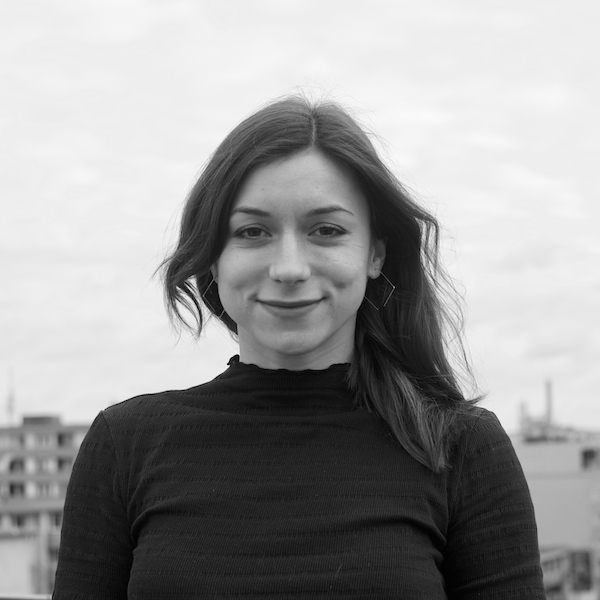
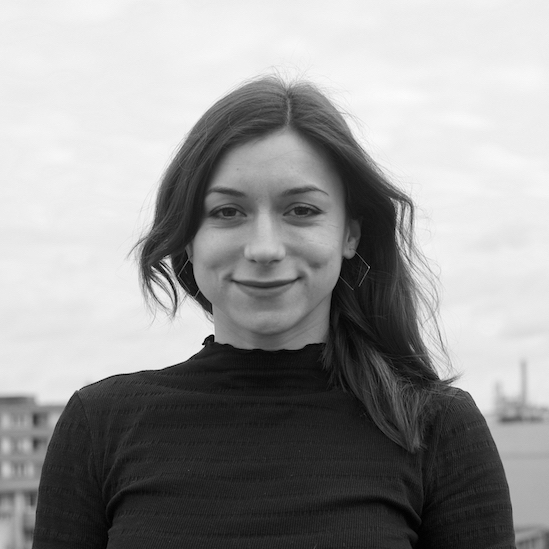
english text added

diff --git a/source/_collections/_team_en/lisa-stubert.md b/source/_collections/_team_en/lisa-stubert.md
@@ -1,9 +1,9 @@
 ---
 name: Lisa Stubert
 uid: lisa-stubert
-image: /assets/images/placeholder.jpg
+image: /assets/images/lisa.jpg
 mail: Stubert@technologiestiftung-berlin.de
-description: Lorem Ipsum
+description: Lisa Stubert is a research assistant in the Ideation & Prototyping Lab of the Technologiestiftung Berlin working on Open Data. After a bachelor’s degree in natural sciences she completed her master’s degree in Geoinformation and Visualization at the University of Potsdam. Her focus is on finding complex relationships between data in order to better understand and model conditions and processes in our environment.
 twitter: 
 github:
 position: Open Data Researcher
